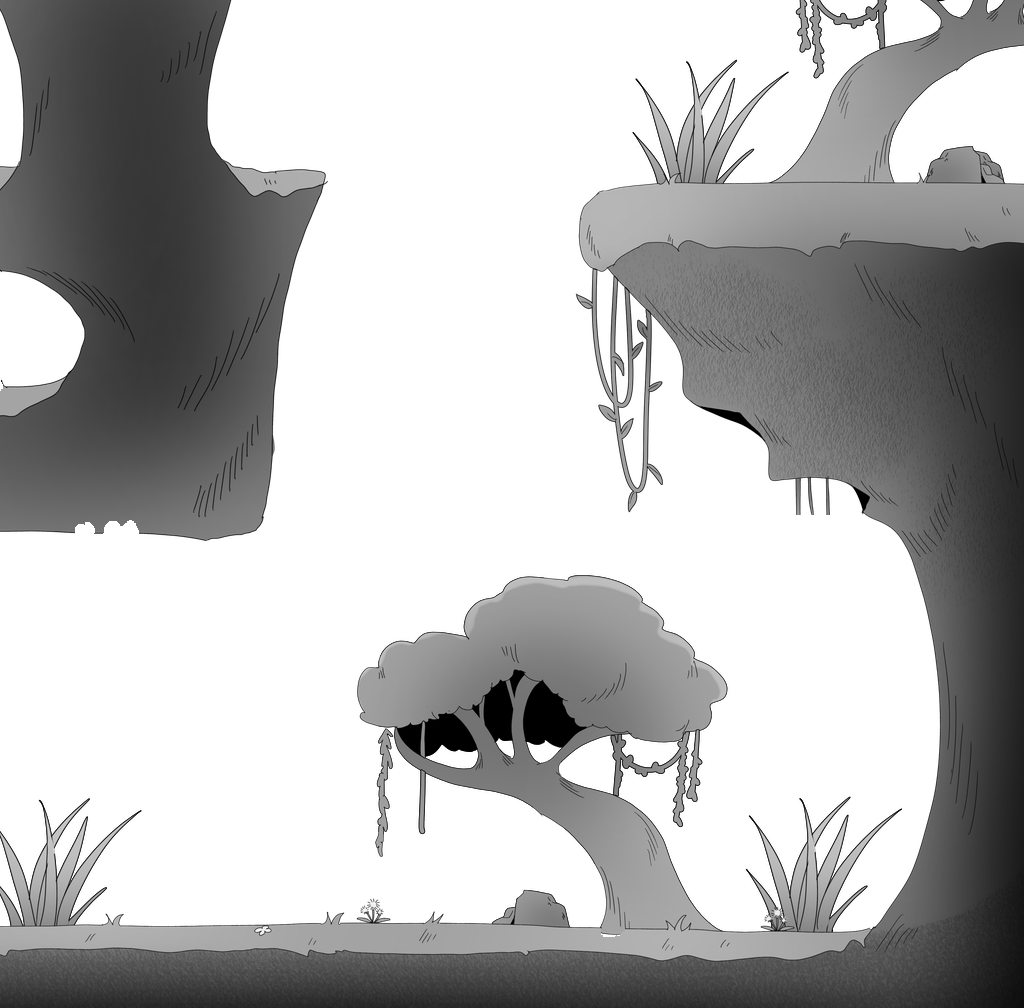
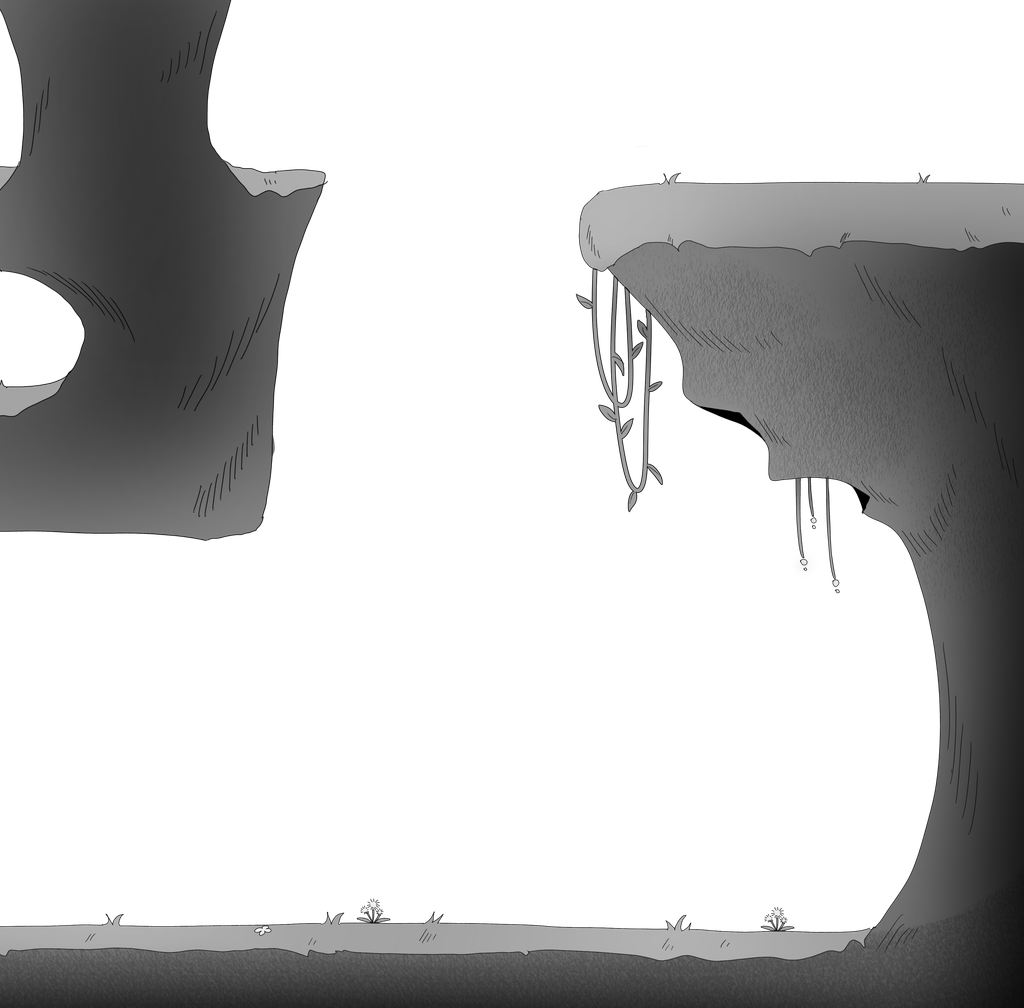
새 타일 원본 보존과 물·색 기믹 하위 레이어 배치 수정

diff --git a/tools/prepare_stage.py b/tools/prepare_stage.py
@@ -1,9 +1,8 @@
-"""Prepare the supplied stage without rearranging its artwork."""
+"""Prepare intact terrain, decoration, and gimmick layers at shared coordinates."""
 from pathlib import Path
 import json
 
-import numpy as np
-from PIL import Image, ImageOps, ImageChops, ImageFilter
+from PIL import Image, ImageOps
 
 ROOT = Path(__file__).resolve().parent.parent
 STAGE_SIZE = (4096, 1008)
@@ -24,26 +23,18 @@ REGIONS = {
 }
 
 
-def remove_layer(composite, layer):
-    """Undo source-over where possible; opaque layer pixels become transparent."""
-    result = np.asarray(composite).astype(np.float32) / 255
-    foreground = np.asarray(layer).astype(np.float32) / 255
-    alpha = foreground[:, :, 3:4]
-    base_alpha = np.clip((result[:, :, 3:4] - alpha) / np.maximum(1 - alpha, .0001), 0, 1)
-    rgb = (result[:, :, :3] * result[:, :, 3:4] - foreground[:, :, :3] * alpha)
-    rgb /= np.maximum((1 - alpha) * base_alpha, .0001)
-    base_alpha[alpha >= .995] = 0
-    return Image.fromarray(np.rint(np.concatenate((np.clip(rgb, 0, 1), base_alpha), axis=2) * 255).astype('uint8'))
+def grayscale(image):
+    result = ImageOps.grayscale(image).convert('RGBA')
+    result.putalpha(image.getchannel('A'))
+    return result
 
 
 def main():
     folder = ROOT / 'image/background/stage1'
     folder.mkdir(exist_ok=True)
-    with Image.open(ROOT / 'image/background/tile/stage1_preview.png') as image:
-        stage = image.convert('RGBA').resize(STAGE_SIZE, Image.Resampling.LANCZOS)
-    # The opaque gate covers some floor in the assembled preview. Keep a
-    # neighboring strip of the same earth to reveal when the gate rises.
-    door_floor = stage.crop((2960, 930, 3030, 1008))
+    with Image.open(ROOT / 'image/background/tile/tile.png') as image:
+        terrain = image.convert('RGBA').resize(STAGE_SIZE, Image.Resampling.LANCZOS)
+    stage = grayscale(terrain)
     sheets = {}
     for name in ('water1', 'water2', 'water3', 'water_tile', 'color_system', 'object'):
         with Image.open(ROOT / f'image/background/tile/{name}.png') as image:
@@ -67,35 +58,20 @@ def main():
     for name, bounds in REGIONS.items():
         save(name, sheets['color_system'], bounds)
     ceiling_bounds = (3850, 515, 3935, 610)
-    save('source_ceiling', stage, ceiling_bounds)
-    for name in ('color_system', 'water3', 'water2', 'water1', 'water_tile'):
-        stage = remove_layer(stage, sheets[name])
-    # The preview can contain edges from several waterfall frames. Strip the
-    # complete footprint of every frame, including antialiased fringe pixels,
-    # so the static background never shows another frame behind the live one.
-    water_mask = Image.new('L', STAGE_SIZE)
-    for name in ('water1', 'water2', 'water3', 'water_tile'):
-        water_mask = ImageChops.lighter(water_mask, sheets[name].getchannel('A'))
-    # Resampling the assembled preview can leave a few faint pixels just
-    # outside the separately resampled frames. Include that narrow fringe.
-    water_mask = water_mask.filter(ImageFilter.MaxFilter(9))
-    device_mask = sheets['color_system'].getchannel('A').filter(ImageFilter.MaxFilter(3))
-    moving_mask = ImageChops.lighter(water_mask, device_mask)
-    keep = moving_mask.point(lambda alpha: 0 if alpha else 255)
-    stage.putalpha(ImageChops.multiply(stage.getchannel('A'), keep))
-    # Restore decoration hidden behind opaque moving devices (notably the
-    # tree canopy behind the elevator). Never bake the old platform back in.
-    stage = Image.alpha_composite(sheets['object'], stage)
-    foundation = Image.new('RGBA', STAGE_SIZE)
-    foundation.paste(door_floor, (2870, 930))
-    stage = Image.alpha_composite(foundation, stage)
-    stage.paste((0, 0, 0, 0), ceiling_bounds)
-    alpha = stage.getchannel('A')
-    stage = ImageOps.grayscale(stage).convert('RGBA')
-    stage.putalpha(alpha)
+    save('source_ceiling', terrain, ceiling_bounds)
+    objects = grayscale(sheets['object'])
+    # Tile pixels and alpha are never erased, dilated, repaired or sampled from
+    # neighboring tiles. Objects and gimmicks are separate layers behind them.
     for left in range(0, stage.width, CHUNK_WIDTH):
-        stage.crop((left, 0, min(left + CHUNK_WIDTH, stage.width), stage.height)).save(
-            folder / f'stage_{left // CHUNK_WIDTH}.png')
+        bounds = (left, 0, min(left + CHUNK_WIDTH, stage.width), stage.height)
+        index = left // CHUNK_WIDTH
+        stage.crop(bounds).save(folder / f'stage_{index}.png')
+        objects.crop(bounds).save(folder / f'objects_{index}.png')
+    # This source belongs to tile.png itself. Switch only its original colors;
+    # both versions have exactly the same terrain shape and alpha.
+    colored_source = stage.copy()
+    colored_source.paste(terrain.crop(ceiling_bounds), ceiling_bounds[:2])
+    colored_source.crop((3072, 0, 4096, 1008)).save(folder / 'stage_3_source.png')
     (folder / 'layout.json').write_text(json.dumps(manifest, indent=2), encoding='utf-8')
 
 

diff --git a/tests/test_stage_art.py b/tests/test_stage_art.py
@@ -30,30 +30,40 @@ class StageArtTests(unittest.TestCase):
                 self.assertTrue((pixels[:, :, 1][opaque] == pixels[:, :, 2][opaque]).all())
                 self.assertTrue((pixels[:, :, 3] == 0).any())
 
+    def test_terrain_is_an_exact_grayscale_copy_of_tile_with_original_alpha(self):
+        from tools.prepare_stage import grayscale
+        with Image.open(ROOT / 'image/background/tile/tile.png') as source:
+            expected = grayscale(source.convert('RGBA').resize((4096, 1008), Image.Resampling.LANCZOS))
+        actual = Image.new('RGBA', expected.size)
+        for i in range(4):
+            with Image.open(ROOT / f'image/background/stage1/stage_{i}.png') as chunk:
+                actual.paste(chunk, (i * 1024, 0))
+        self.assertTrue(np.array_equal(np.array(actual), np.array(expected)))
+        with Image.open(ROOT / 'image/background/stage1/stage_3_source.png') as colored:
+            self.assertTrue(np.array_equal(np.array(colored.getchannel('A')),
+                                           np.array(actual.crop((3072, 0, 4096, 1008)).getchannel('A'))))
+
     def test_scrolled_view_has_no_seams_or_vertical_offset(self):
         original_canvas = renderer.canvas
         try:
             with patch('pico2d.load_image', side_effect=renderer.Sprite):
                 art = StageArt()
+            expected_world = Image.new('RGB', (4096, 1008), (32, 40, 48))
+            for i, sprite in enumerate(art.objects):
+                expected_world.paste(sprite.image, (i * 1024, 0), sprite.image)
+            for name in ('water1', 'pool', 'leaf_0', 'leaf_1', 'leaf_2', 'leaf_3',
+                         'lamp_upper', 'door', 'lamp_door', 'ropes', 'elevator', 'lamp_elevator'):
+                left, bottom, right, top = art.layout[name]
+                sprite = art.sprites[name].image
+                expected_world.paste(sprite, (left, 1008-top), sprite)
+            chunks = art.chunks[:3] + [art.source_chunk]
+            for i, sprite in enumerate(chunks):
+                expected_world.paste(sprite.image, (i * 1024, 0), sprite.image)
             for camera_x, camera_y in ((0, 0), (1000, 200), (2944, 360)):
                 renderer.canvas = Image.new('RGB', (1152, 648), (32, 40, 48))
                 art.draw(camera_x, camera_y)
-                expected = Image.new('RGB', (1152, 648), (32, 40, 48))
-                stage = Image.new('RGBA', (4096, 1008))
-                for i, sprite in enumerate(art.chunks):
-                    stage.paste(sprite.image, (i * 1024, 0))
-                for name in ('water1', 'pool', 'leaf_0', 'leaf_1', 'leaf_2', 'leaf_3',
-                             'lamp_upper', 'door', 'lamp_door', 'ropes', 'elevator', 'lamp_elevator', 'source_ceiling'):
-                    left, bottom, right, top = art.layout[name]
-                    sprite = art.sprites[name].image
-                    # Match pico2d's regular alpha-blended sprite layers.
-                    region = stage.crop((left, 1008-top, right, 1008-bottom))
-                    region.alpha_composite(sprite)
-                    stage.paste(region, (left, 1008-top))
-                crop = stage.crop((camera_x, 1008 - camera_y - 648,
-                                   camera_x + 1152, 1008 - camera_y))
-                expected.paste(crop, (0, 0), crop)
-                # Independent per-sprite alpha rounding may differ at edges.
+                expected = expected_world.crop((camera_x, 1008-camera_y-648,
+                                                camera_x+1152, 1008-camera_y))
                 delta = np.abs(np.array(renderer.canvas).astype(float) - np.array(expected).astype(float))
                 self.assertLess(delta.mean(), .2)
         finally:

diff --git a/code/stage_art.py b/code/stage_art.py
@@ -14,6 +14,9 @@ class StageArt:
         folder = IMAGE_ROOT / 'background/stage1'
         self.chunks = [pico2d.load_image(str(folder / f'stage_{i}.png'))
                        for i in range(4)]
+        self.objects = [pico2d.load_image(str(folder / f'objects_{i}.png'))
+                        for i in range(4)]
+        self.source_chunk = pico2d.load_image(str(folder / 'stage_3_source.png'))
         self.layout = json.loads((folder / 'layout.json').read_text(encoding='utf-8'))
         self.sprites = {name + suffix: pico2d.load_image(str(folder / f'{name}{suffix}.png'))
                         for name in self.layout for suffix in ('', '_gray')}
@@ -38,13 +41,29 @@ class StageArt:
         image.opacify(1.0)
 
     def draw(self, camera_x, camera_y=0):
+        camera_x, camera_y = round(camera_x), round(camera_y)
+        self.draw_objects(camera_x, camera_y)
+        self.draw_devices(camera_x, camera_y)
+        self.draw_terrain(camera_x, camera_y)
+
+    def draw_objects(self, camera_x, camera_y=0):
+        self.draw_chunks(self.objects, camera_x, camera_y)
+
+    def draw_terrain(self, camera_x, camera_y=0):
+        chunks = self.chunks.copy()
+        if self.level is None or any(getattr(source, 'sprite_name', None) == 'source_ceiling'
+                                      and source.active for source in self.level.color_sources):
+            chunks[3] = self.source_chunk
+        self.draw_chunks(chunks, camera_x, camera_y)
+
+    def draw_chunks(self, chunks, camera_x, camera_y):
         # Share rounded edges between chunks to avoid seams on scroll.
         camera_x, camera_y = round(camera_x), round(camera_y)
         bottom = max(0, camera_y)
         top = min(self.HEIGHT, camera_y + SCREEN_HEIGHT)
         if top <= bottom:
             return
-        for index, image in enumerate(self.chunks):
+        for index, image in enumerate(chunks):
             origin = index * self.CHUNK_WIDTH
             left = max(origin, camera_x)
             right = min(origin + self.CHUNK_WIDTH, camera_x + SCREEN_WIDTH)
@@ -53,13 +72,12 @@ class StageArt:
                                 (left + right) / 2 - camera_x,
                                 (bottom + top) / 2 - camera_y,
                                 right - left, top - bottom)
-        self.draw_devices(camera_x, camera_y, include_water=self.level is None)
 
     def draw_devices(self, camera_x, camera_y, include_water=True):
         level = self.level
         if level is None:
             for name in ('water1', 'pool', 'leaf_0', 'leaf_1', 'leaf_2', 'leaf_3',
-                         'lamp_upper', 'door', 'lamp_door', 'ropes', 'elevator', 'lamp_elevator', 'source_ceiling'):
+                         'lamp_upper', 'door', 'lamp_door', 'ropes', 'elevator', 'lamp_elevator'):
                 self.sprite(name, camera_x, camera_y)
             return
         if include_water:
@@ -68,7 +86,7 @@ class StageArt:
             self.sprite(f'leaf_{i}', camera_x, camera_y, gray=True)
         self.draw_temporary_vines(camera_x, camera_y)
         for source in level.color_sources:
-            if getattr(source, 'sprite_name', None):
+            if getattr(source, 'sprite_name', None) and source.sprite_name != 'source_ceiling':
                 self.sprite(source.sprite_name, camera_x, camera_y, gray=not source.active)
         for name, switch in (('lamp_upper', level.upper_lamp),
                              ('lamp_elevator', level.elevator_switch)):

diff --git a/tests/test_illustrated_level.py b/tests/test_illustrated_level.py
@@ -111,20 +111,22 @@ class IllustratedStageTests(unittest.TestCase):
         self.player.enter_level(self.level)
         self.assertTrue(all(source.active for source in sources))
 
-    def test_colored_water_is_transparent_and_draws_after_the_character(self):
+    def test_colored_water_is_transparent_and_stays_below_tiles(self):
         from code.blockout import ForestBlockout
         with patch('pico2d.load_image', return_value=Mock(w=1024, h=1008)):
             bg = ForestBlockout(self.level)
         self.level.water[0].has_blue = True
         with patch.object(bg.stage, 'sprite') as sprites, patch('pico2d.draw_rectangle'):
             bg.draw(0)
-            self.assertFalse(any(c.args[0].startswith('water') for c in sprites.call_args_list))
+            self.assertEqual(len([c for c in sprites.call_args_list if c.args[0].startswith('water')]), 1)
+            water_calls = len(sprites.call_args_list)
             bg.draw_overlay(0, self.player)
+            self.assertEqual(len(sprites.call_args_list), water_calls)
             water = [c for c in sprites.call_args_list if c.args[0].startswith('water')][-1]
             self.assertEqual(water.kwargs['opacity'], .3)
             self.assertFalse(water.kwargs['gray'])
             self.level.water[0].has_blue = False
-            bg.draw_overlay(0, self.player)
+            bg.draw(0)
             water = [c for c in sprites.call_args_list if c.args[0].startswith('water')][-1]
             self.assertEqual(water.kwargs['opacity'], 1.0)
             self.assertTrue(water.kwargs['gray'])

diff --git a/code/blockout.py b/code/blockout.py
@@ -29,9 +29,10 @@ class ForestBlockout:
             offset = round(camera_x * rate) % width
             for start in (-offset, width - offset):
                 layer.draw(start + width / 2, height / 2 - camera_y, width, height)
-        self.stage.draw(camera_x, camera_y)
+        self.stage.draw_objects(camera_x, camera_y)
+        self.diamonds.draw(self.level.color_sources, camera_x, camera_y)
+        self.stage.draw_devices(camera_x, camera_y)
+        self.stage.draw_terrain(camera_x, camera_y)
 
     def draw_overlay(self, camera_x, player, camera_y=0):
-        self.stage.draw_water(camera_x, camera_y)
-        self.diamonds.draw(self.level.color_sources, camera_x, camera_y)
         self.door_effect.draw(self.level.door_effect, camera_x, camera_y)
